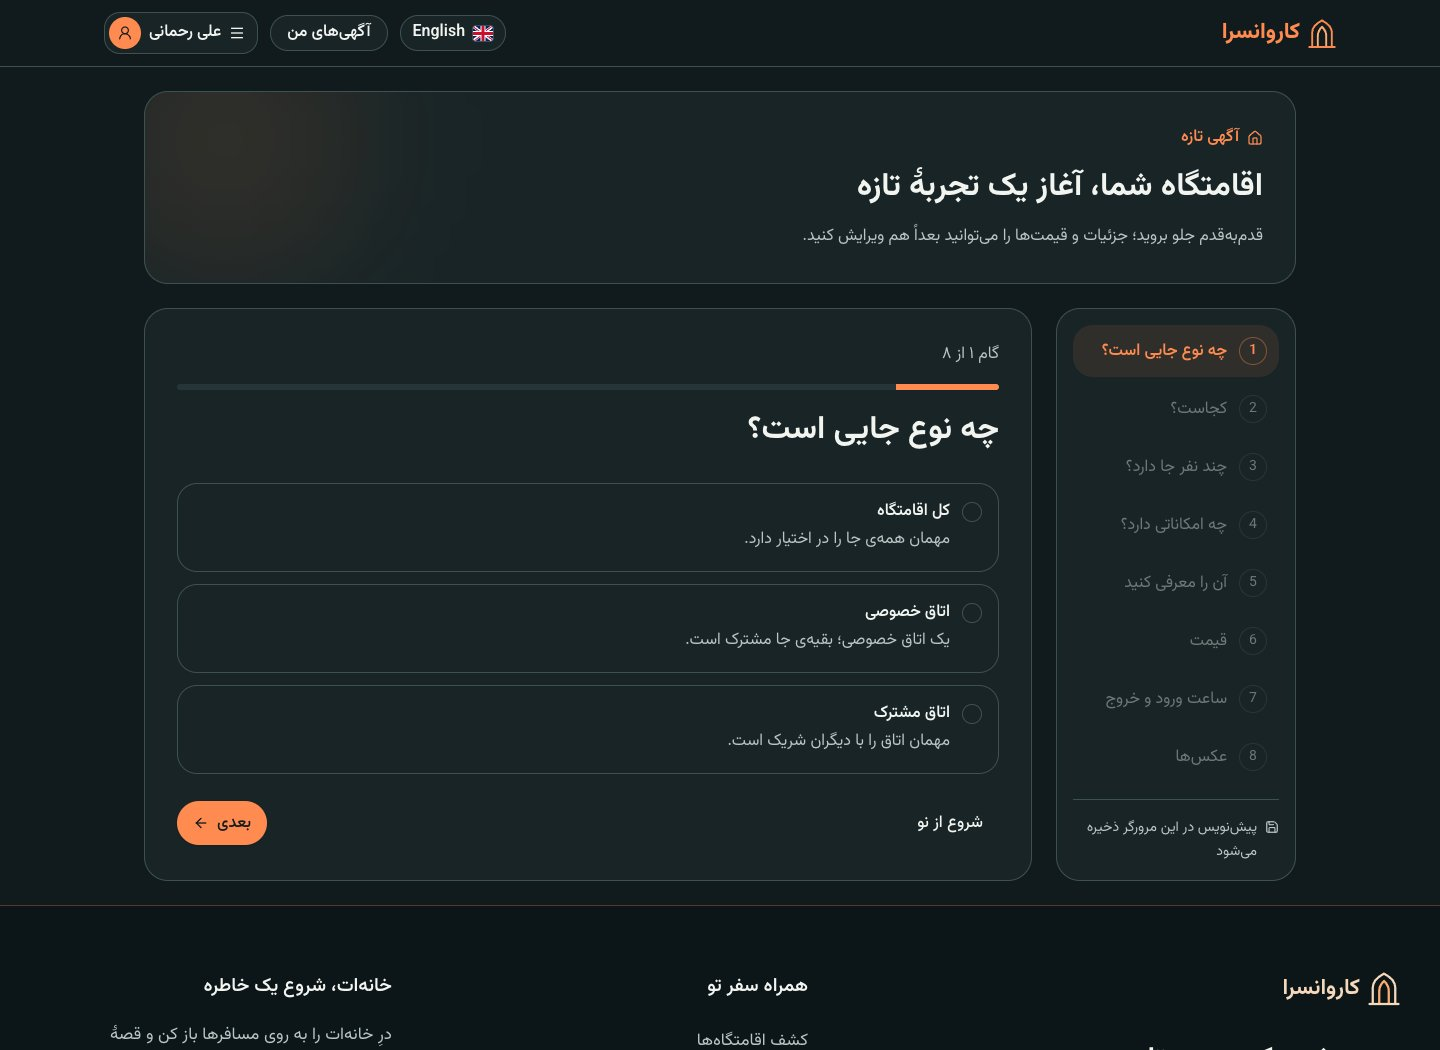
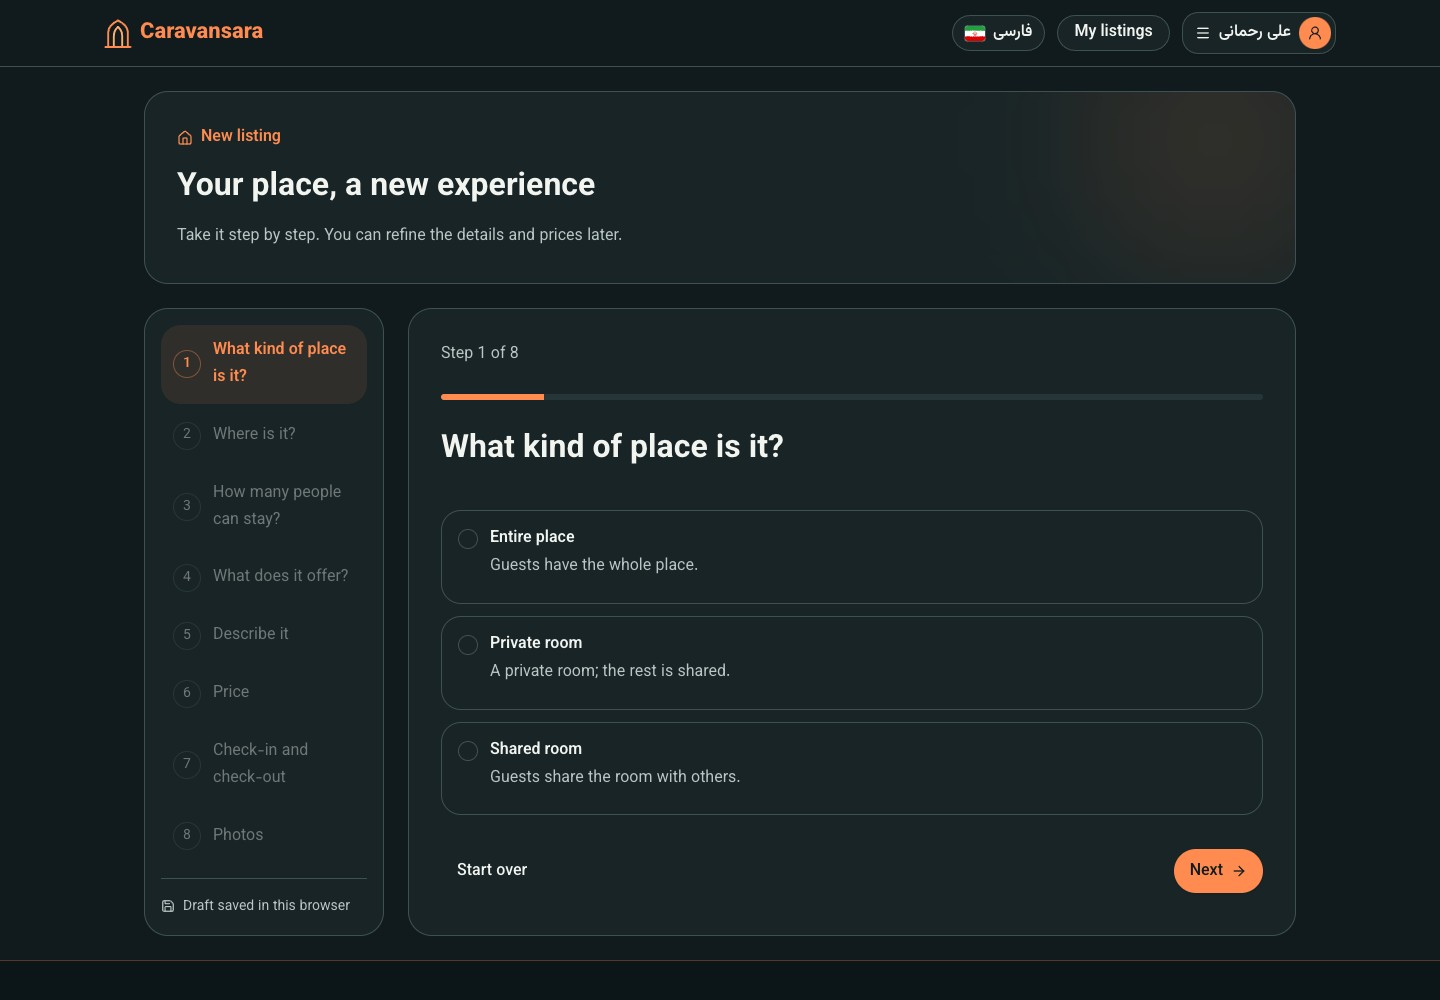
docs: refresh README with English site screenshots

diff --git a/README.md b/README.md
@@ -58,16 +58,16 @@ avatars, Persian notifications use Vazirmatn, and map price markers keep their p
 
 ## Screenshots
 
-All application screenshots were captured on **13–14 November 2026**, at **1440 px desktop** and **390 px
-mobile** widths. Host/admin screens use development demo accounts;
-the pricing rules and sample holiday are demonstration settings. Home covers are generated decorative
-illustrations. [Demo data and image provenance](db/demo/README.md); map data ©
+All application screenshots show the **English interface** and were captured on **16 November 2026**, at
+**1440 px desktop** and **390 px mobile** widths. Host/admin screens use development demo accounts;
+pricing rules are demonstration settings. Listing titles and map labels retain their source languages.
+Home covers are generated decorative illustrations. [Demo data and image provenance](db/demo/README.md); map data ©
 [OpenStreetMap contributors](https://www.openstreetmap.org/copyright).
 
 ### Unified home
 
 <p align="center">
-  <img src="docs/images/readme/site-cinematic.jpg" alt="Cinematic Persian home with a forest cabin cover, orange search action and popular destinations" width="100%">
+  <img src="docs/images/readme/site-cinematic.jpg" alt="Cinematic English home with a forest cabin cover, orange search action and popular destinations" width="100%">
 </p>
 
 <details>
@@ -76,7 +76,7 @@ illustrations. [Demo data and image provenance](db/demo/README.md); map data ©
 City search, filters, accommodation cards and approximate price pins in Isfahan.
 
 <p align="center">
-  <img src="docs/images/readme/site-search.jpg" alt="Persian Isfahan search results with accommodation photos, toman prices, filters and a map" width="100%">
+  <img src="docs/images/readme/site-search.jpg" alt="English Isfahan search results with accommodation photos, toman prices, filters and a map" width="100%">
 </p>
 
 </details>
@@ -88,7 +88,7 @@ Daily prices reflect the property's saved rules. Booked nights are marked, check
 nightly charge, and the selected dates are applied only after confirmation.
 
 <p align="center">
-  <img src="docs/images/readme/guest-price-calendar.jpg" alt="Persian guest booking calendar with prices below each day, a selected date range and an exact nightly subtotal, cleaning fee and total" width="100%">
+  <img src="docs/images/readme/guest-price-calendar.jpg" alt="English guest booking calendar with prices below each day, a selected date range and an exact nightly subtotal, cleaning fee and total" width="100%">
 </p>
 
 </details>
@@ -99,7 +99,7 @@ nightly charge, and the selected dates are applied only after confirmation.
 The email method uses the existing SMTP configuration and the same protected session as password login. Codes expire after five minutes and are single use.
 
 <p align="center">
-  <img src="docs/images/readme/email-code-login.jpg" alt="Persian email-code login with method selection, a five-digit input, expiry hint and resend countdown" width="100%">
+  <img src="docs/images/readme/email-code-login.jpg" alt="English email-code login with method selection, a five-digit input, expiry hint and resend countdown" width="100%">
 </p>
 
 </details>
@@ -110,7 +110,7 @@ The email method uses the existing SMTP configuration and the same protected ses
 An optional discovery page compares available stays in one country and currency. Each suggestion carries its dates and guests into the existing booking flow.
 
 <p align="center">
-  <img src="docs/images/readme/travel-opportunities.jpg" alt="Persian travel opportunities with a total budget, flexible arrival dates and three real Isfahan accommodation suggestions" width="100%">
+  <img src="docs/images/readme/travel-opportunities.jpg" alt="English travel opportunities with a total budget, flexible arrival dates and three real Isfahan accommodation suggestions" width="100%">
 </p>
 
 </details>
@@ -123,8 +123,8 @@ pricing editor combines recurring rules, custom date ranges and a nightly price 
 
 <p align="center">
   <img src="docs/images/readme/host-dashboard.jpg" alt="Host dashboard with listing cards and direct pricing, editing and photo links" width="100%">
-  <img src="docs/images/readme/host-wizard.jpg" alt="Persian listing wizard with property-type choices, progress and desktop step navigation" width="100%">
-  <img src="docs/images/readme/host-pricing.jpg" alt="Jalali price calendar with plus 30 percent weekends, plus 100 percent holidays and a minus 20 percent custom range" width="100%">
+  <img src="docs/images/readme/host-wizard.jpg" alt="English listing wizard with property-type choices, progress and desktop step navigation" width="100%">
+  <img src="docs/images/readme/host-pricing.jpg" alt="Gregorian nightly price calendar with a 30 percent weekend adjustment and holiday and custom date-range controls" width="100%">
 </p>
 
 </details>
@@ -135,7 +135,7 @@ pricing editor combines recurring rules, custom date ranges and a nightly price 
 Overview counts and country/month controls for the shared calendar.
 
 <p align="center">
-  <img src="docs/images/readme/admin-holidays.jpg" alt="Persian admin overview and Iranian holiday calendar with a labelled sample holiday" width="100%">
+  <img src="docs/images/readme/admin-holidays.jpg" alt="English admin overview and shared holiday calendar with country and month controls" width="100%">
 </p>
 
 </details>
